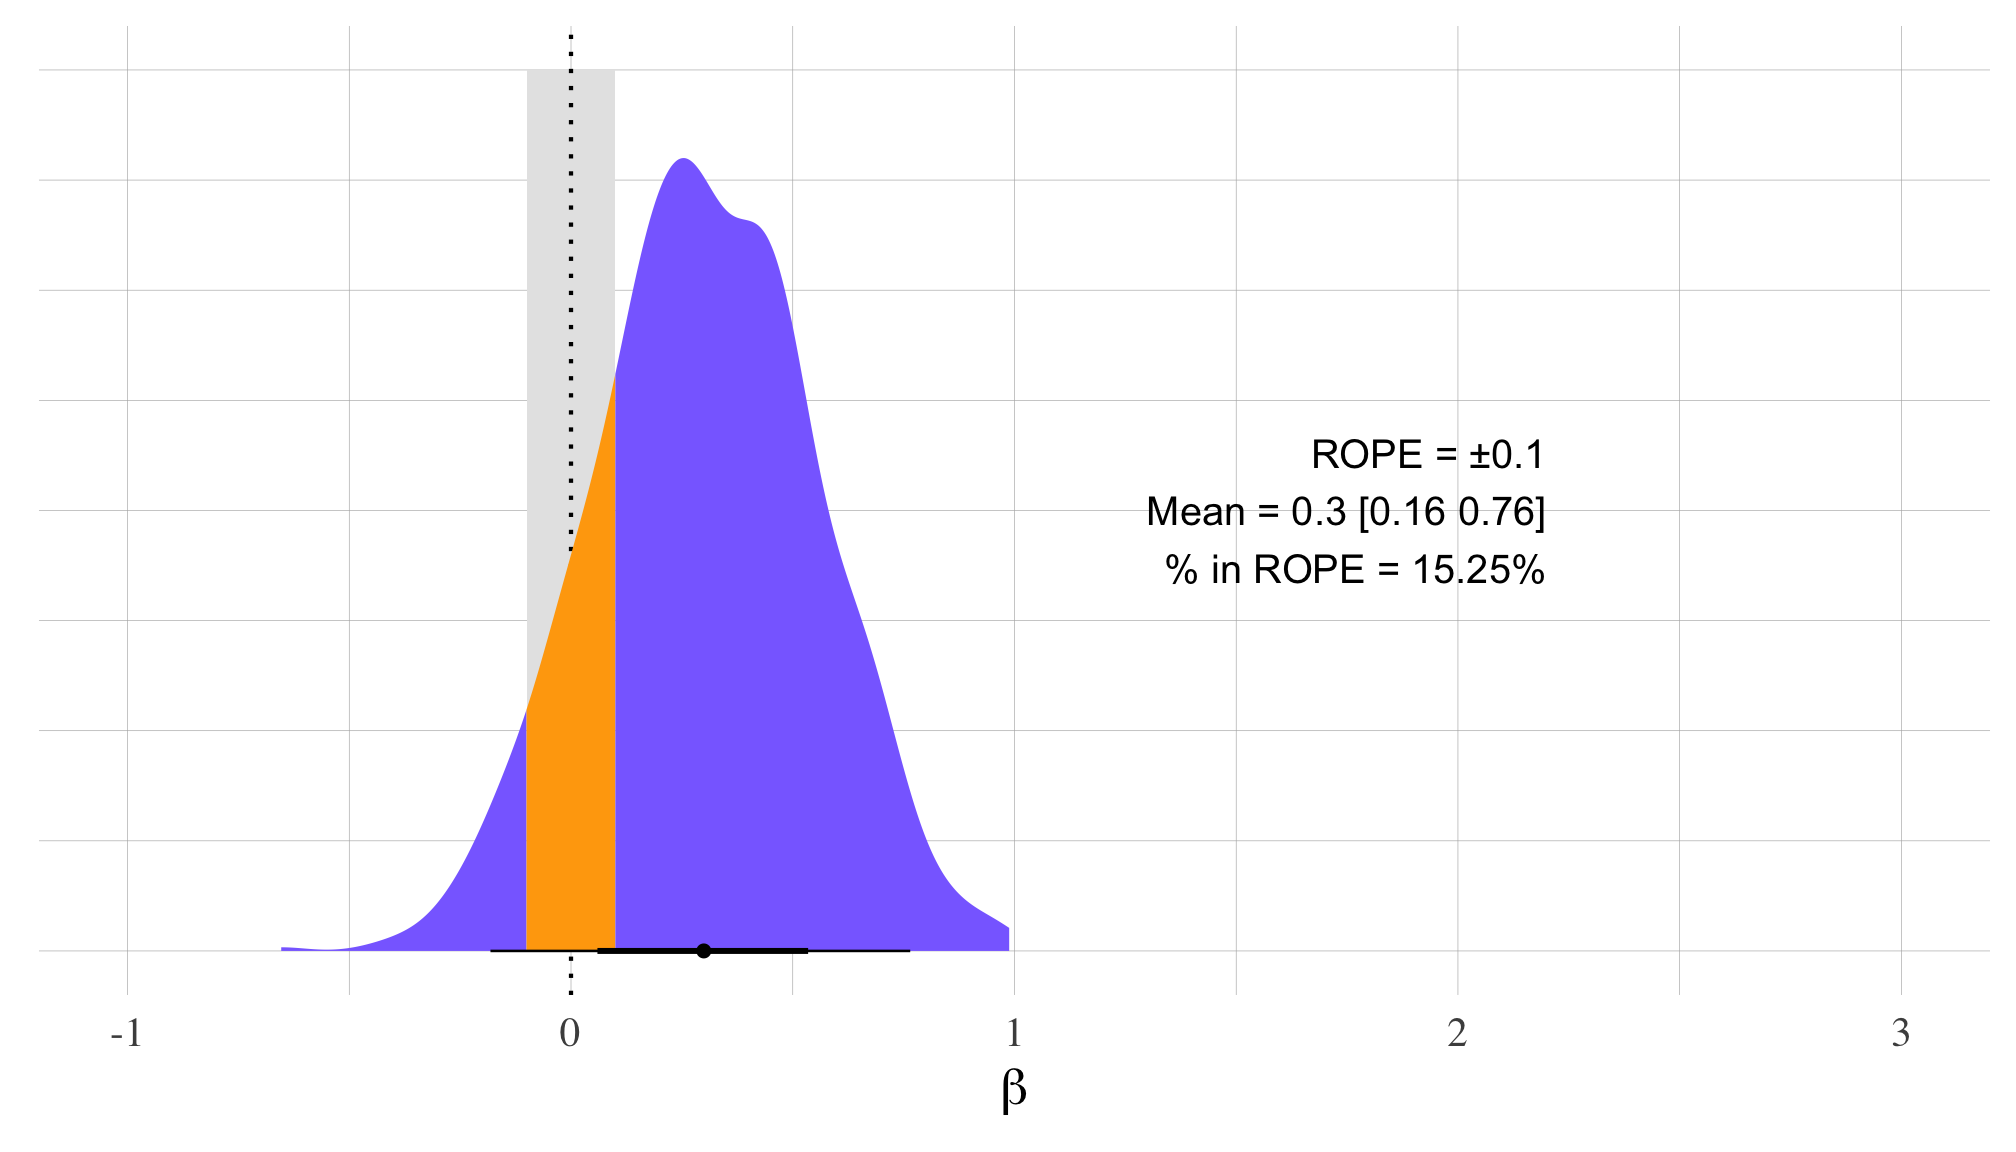
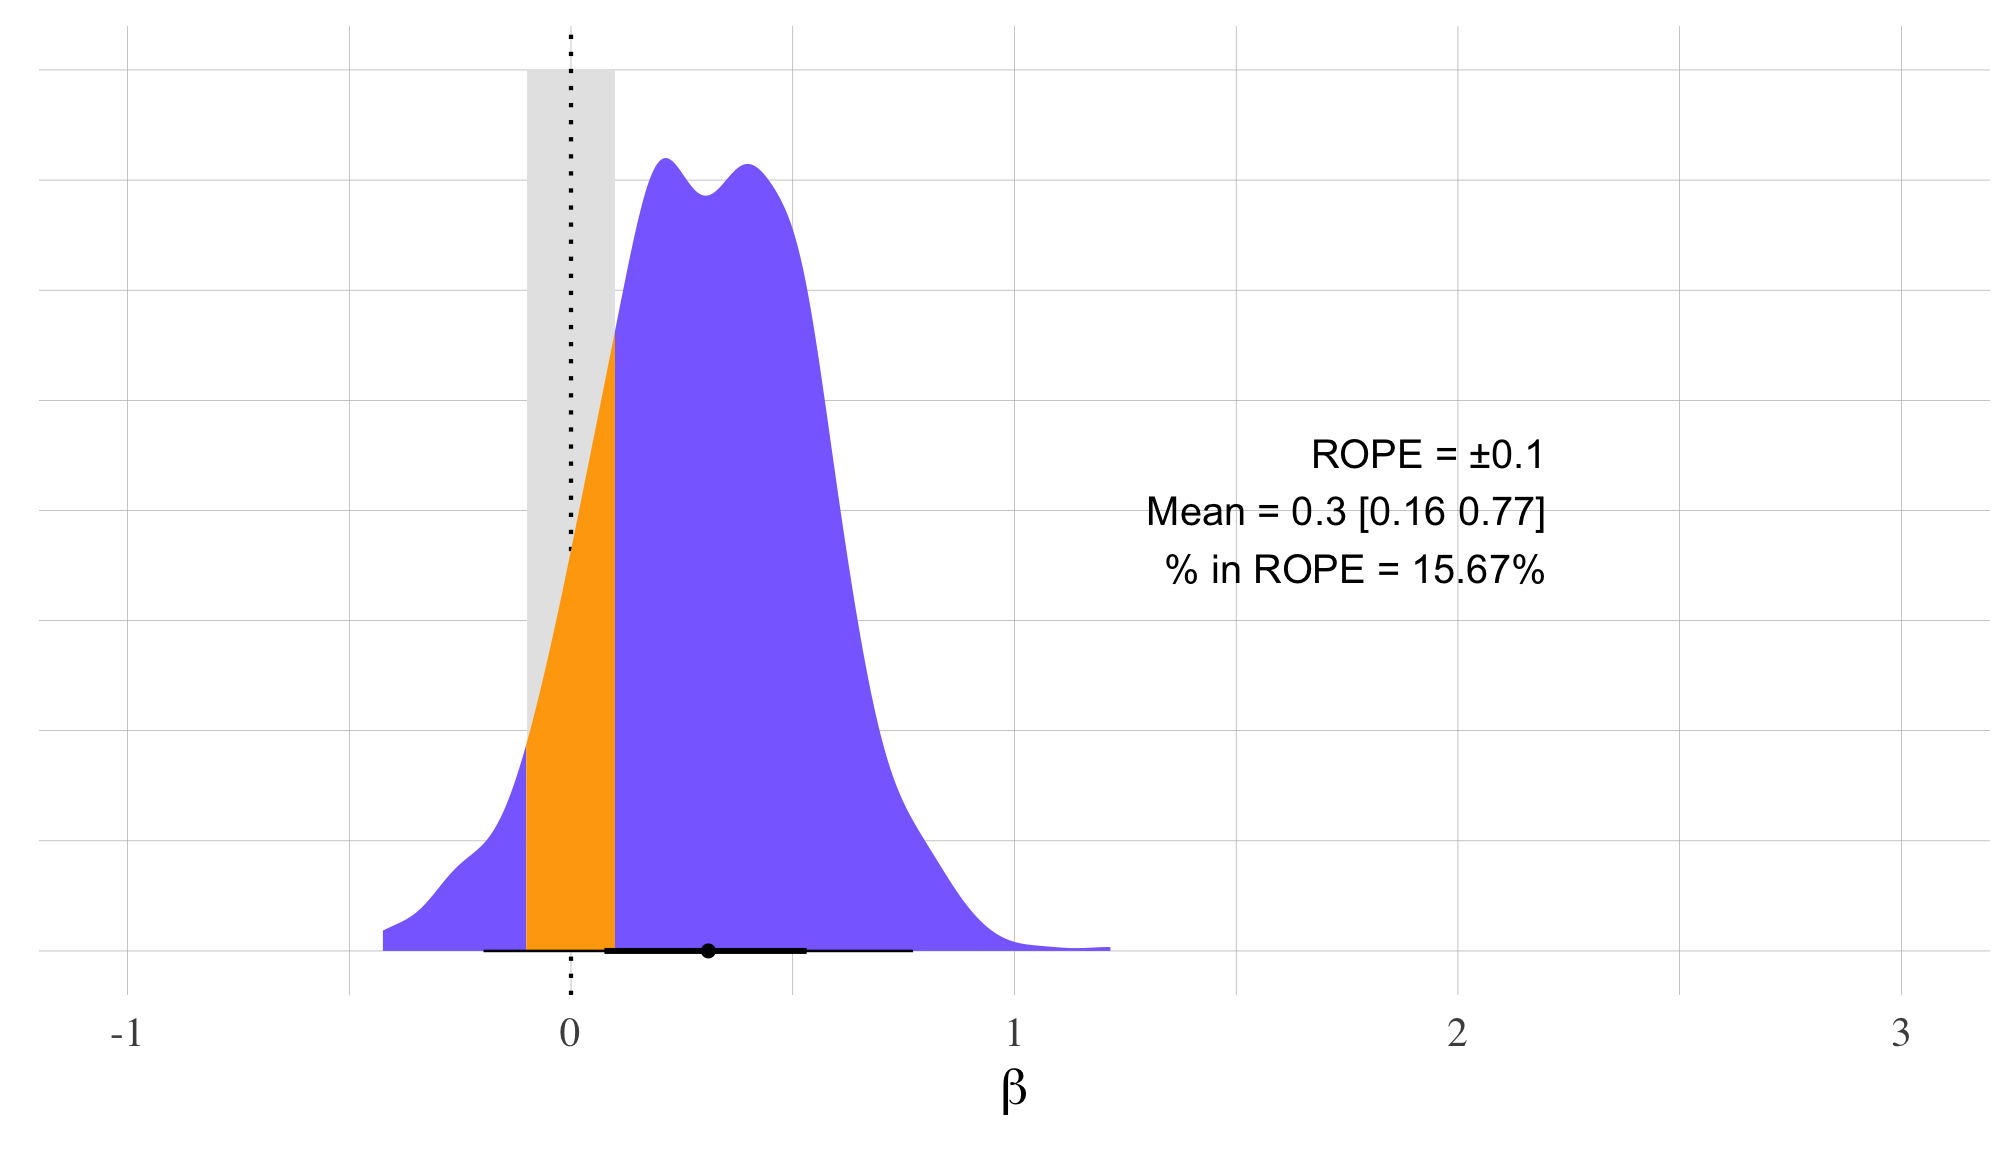
remove pval plot

diff --git a/06_a2r_inference_over_posterior/index.html b/06_a2r_inference_over_posterior/index.html
@@ -17,7 +17,7 @@ class: center, middle, inverse, title-slide
 ## Bayesian inference
 ### Timo Roettger, Stefano Coretta and Joseph Casillas
 ### LabPhon workshop
-### 2021/07/06 (updated: 2021-06-29)
+### 2021/07/06 (updated: 2021-07-03)
 
 ---
 
@@ -220,6 +220,7 @@ short practical
 
 
 ---
+exclude: true
 class: center, middle
 
 &lt;img src="index_files/figure-html/pd-p-comparison-1.png" width="1008" /&gt;
@@ -300,9 +301,9 @@ class: center, middle
 
 ???
 
-Here we can see that the posterior mean is 0.3 and the 95% credible interval ranges from 0.16, 0.76
+Here we can see that the posterior mean is 0.3 and the 95% credible interval ranges from 0.16, 0.77
 
-Furthermore we see that 15.25% of the HDI falls within the ROPE
+Furthermore we see that 15.67% of the HDI falls within the ROPE
 
 This is visible in the plot with the orange vertical slab
 
